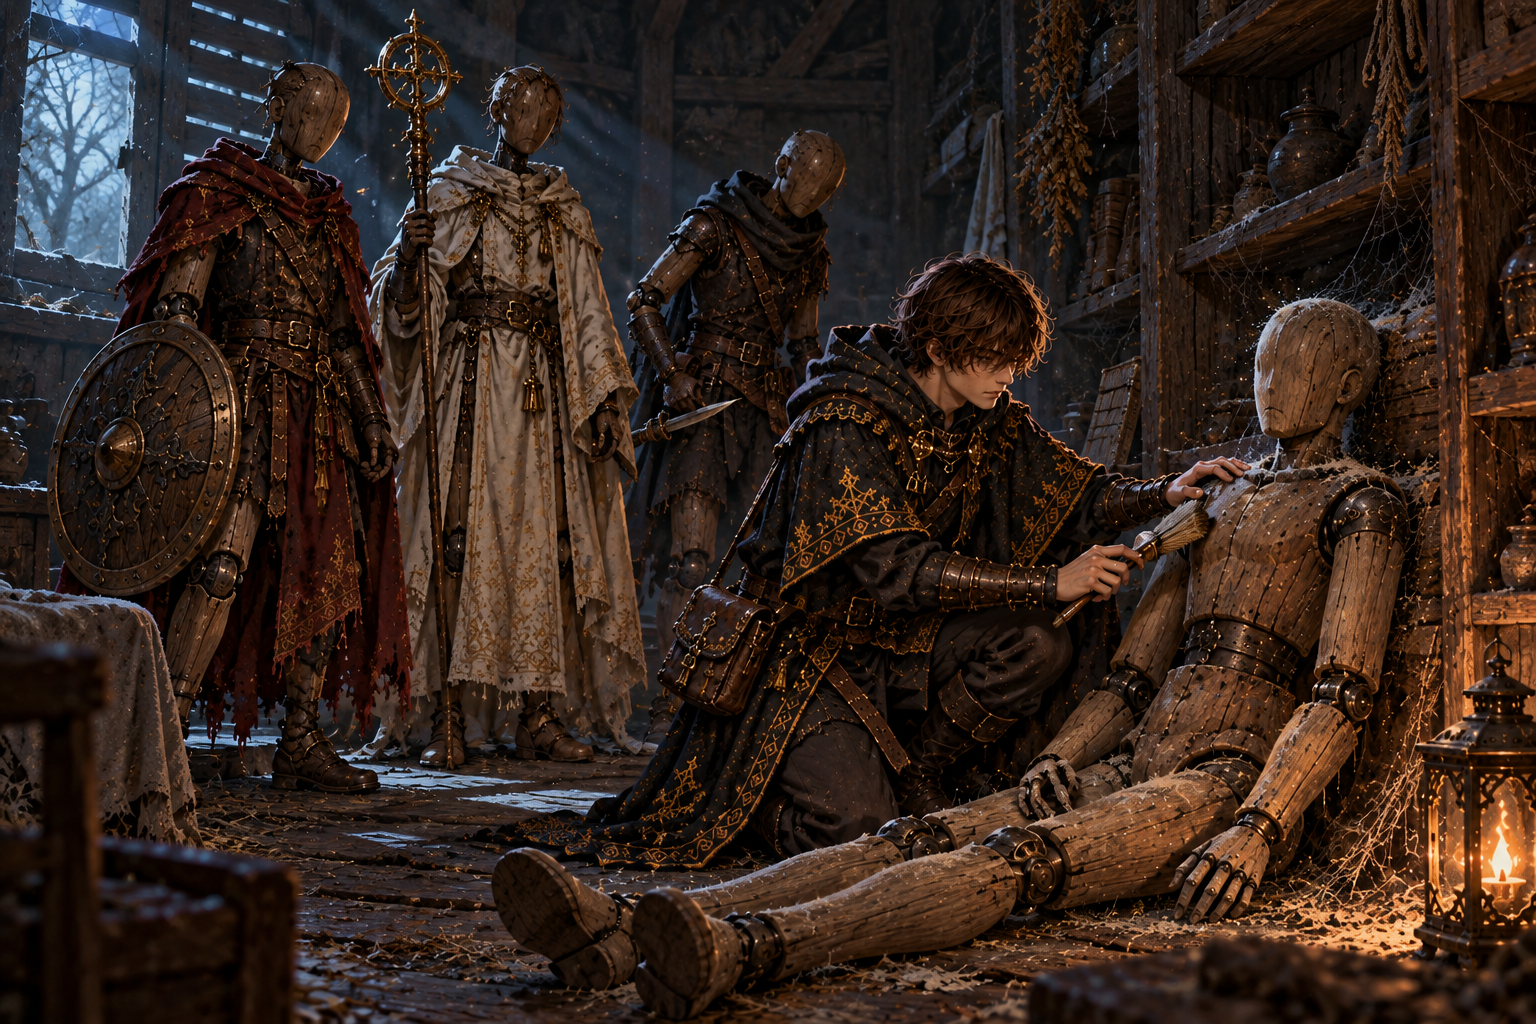
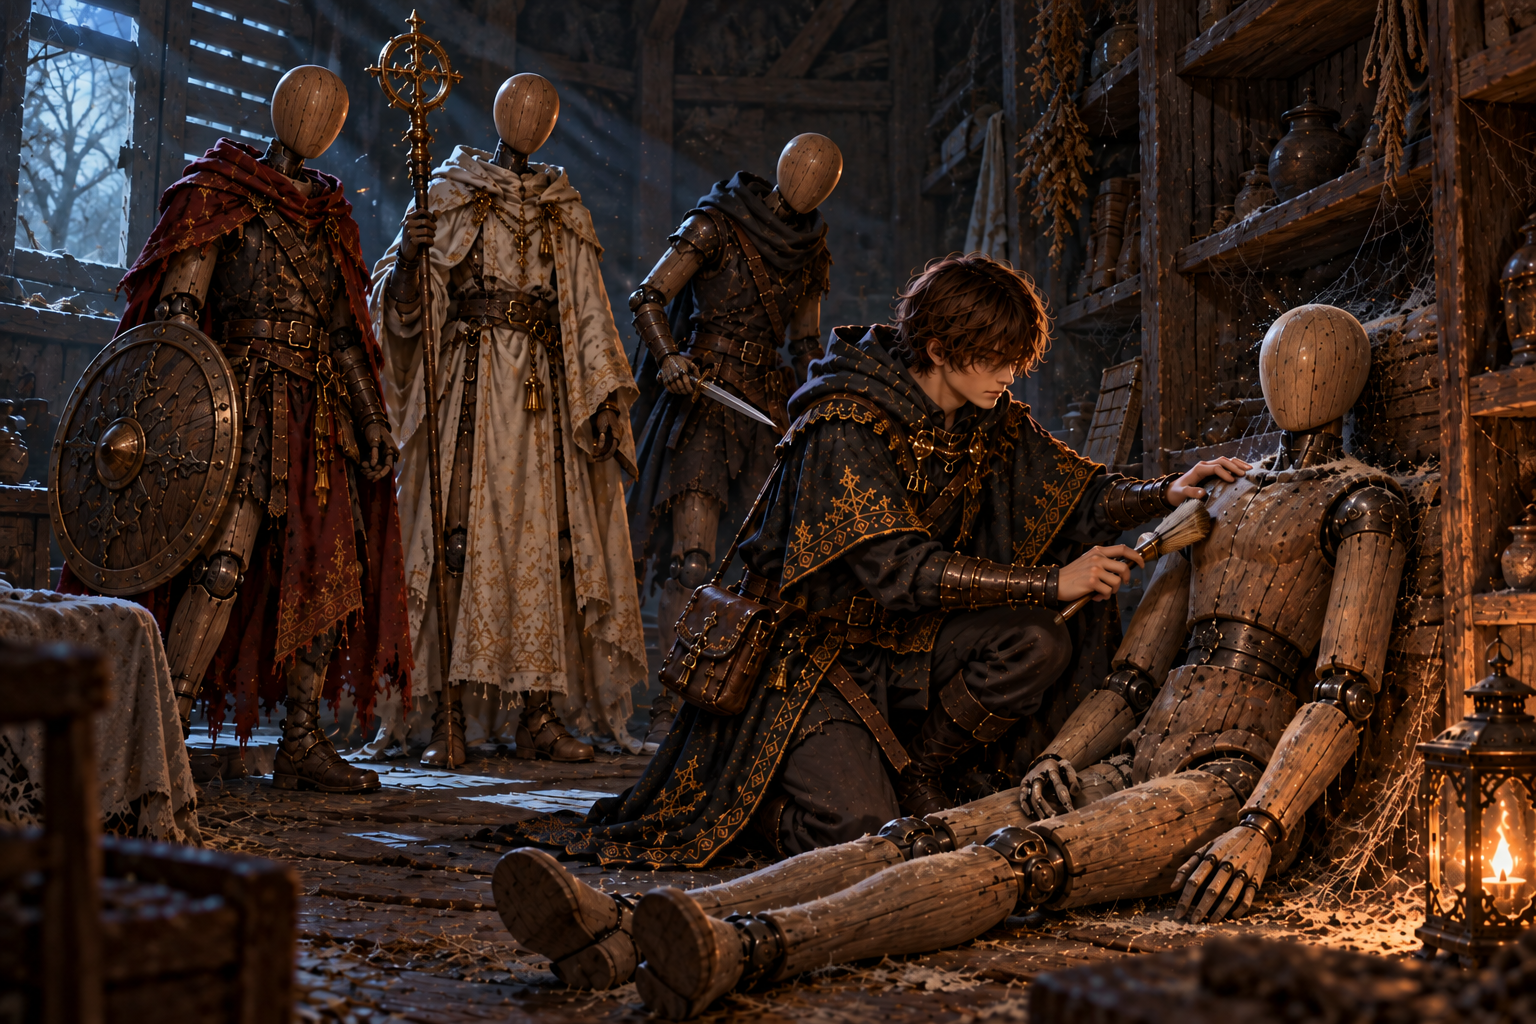
古屋の人業の顔と盗賊の短剣を修正

diff --git a/docs/art/codex-story-art-brief.md b/docs/art/codex-story-art-brief.md
@@ -390,6 +390,8 @@ Character reference sheet on a plain dark slate-blue background with soft even l
 ユーザー指定により**今回は画像を作成しない**。新版の進行・修正対象の一覧は `docs/prologue-revision.md`。最初の三体は戦士・僧侶・盗賊、四体目は魔導士、五体目は騎士、六体目は司教。下記は後日の制作指示のみ。
 
 **forest_doll「ほこりの下で待つ人業」** (序章 / 森の古屋の人業)
+
+- 修正: 人業4体の頭を `docs/art/story-refs/dolls.png` の目鼻・口・耳のない丸い木の頭にそろえ、盗賊の短剣を右手で柄を握る形に直す。(済)
 - 要点: 三体と森を進み、古屋でしばらく使われていない人業を発見する。人業にはまだ魂の灯がなく、壊れていない。
 - 描くもの: 森の奥の古屋の室内 / 棚にもたれる、ほこりをかぶった木と黒鉄の人業 / 戦士・僧侶・盗賊の三体 / 弟子。
 - 描かないもの: 騎士・魔導士・司教、イレーヌ、宝箱、死体、罠。

diff --git a/art/story-review/review/chapter0.md b/art/story-review/review/chapter0.md
@@ -127,6 +127,7 @@
 
 **指示書 (4章)**
 
+- 修正: 人業4体の頭を `docs/art/story-refs/dolls.png` の目鼻・口・耳のない丸い木の頭にそろえ、盗賊の短剣を右手で柄を握る形に直す。(済)
 - 要点: 三体と森を進み、古屋でしばらく使われていない人業を発見する。人業にはまだ魂の灯がなく、壊れていない。
 - 描くもの: 森の奥の古屋の室内 / 棚にもたれる、ほこりをかぶった木と黒鉄の人業 / 戦士・僧侶・盗賊の三体 / 弟子。
 - 描かないもの: 騎士・魔導士・司教、イレーヌ、宝箱、死体、罠。
